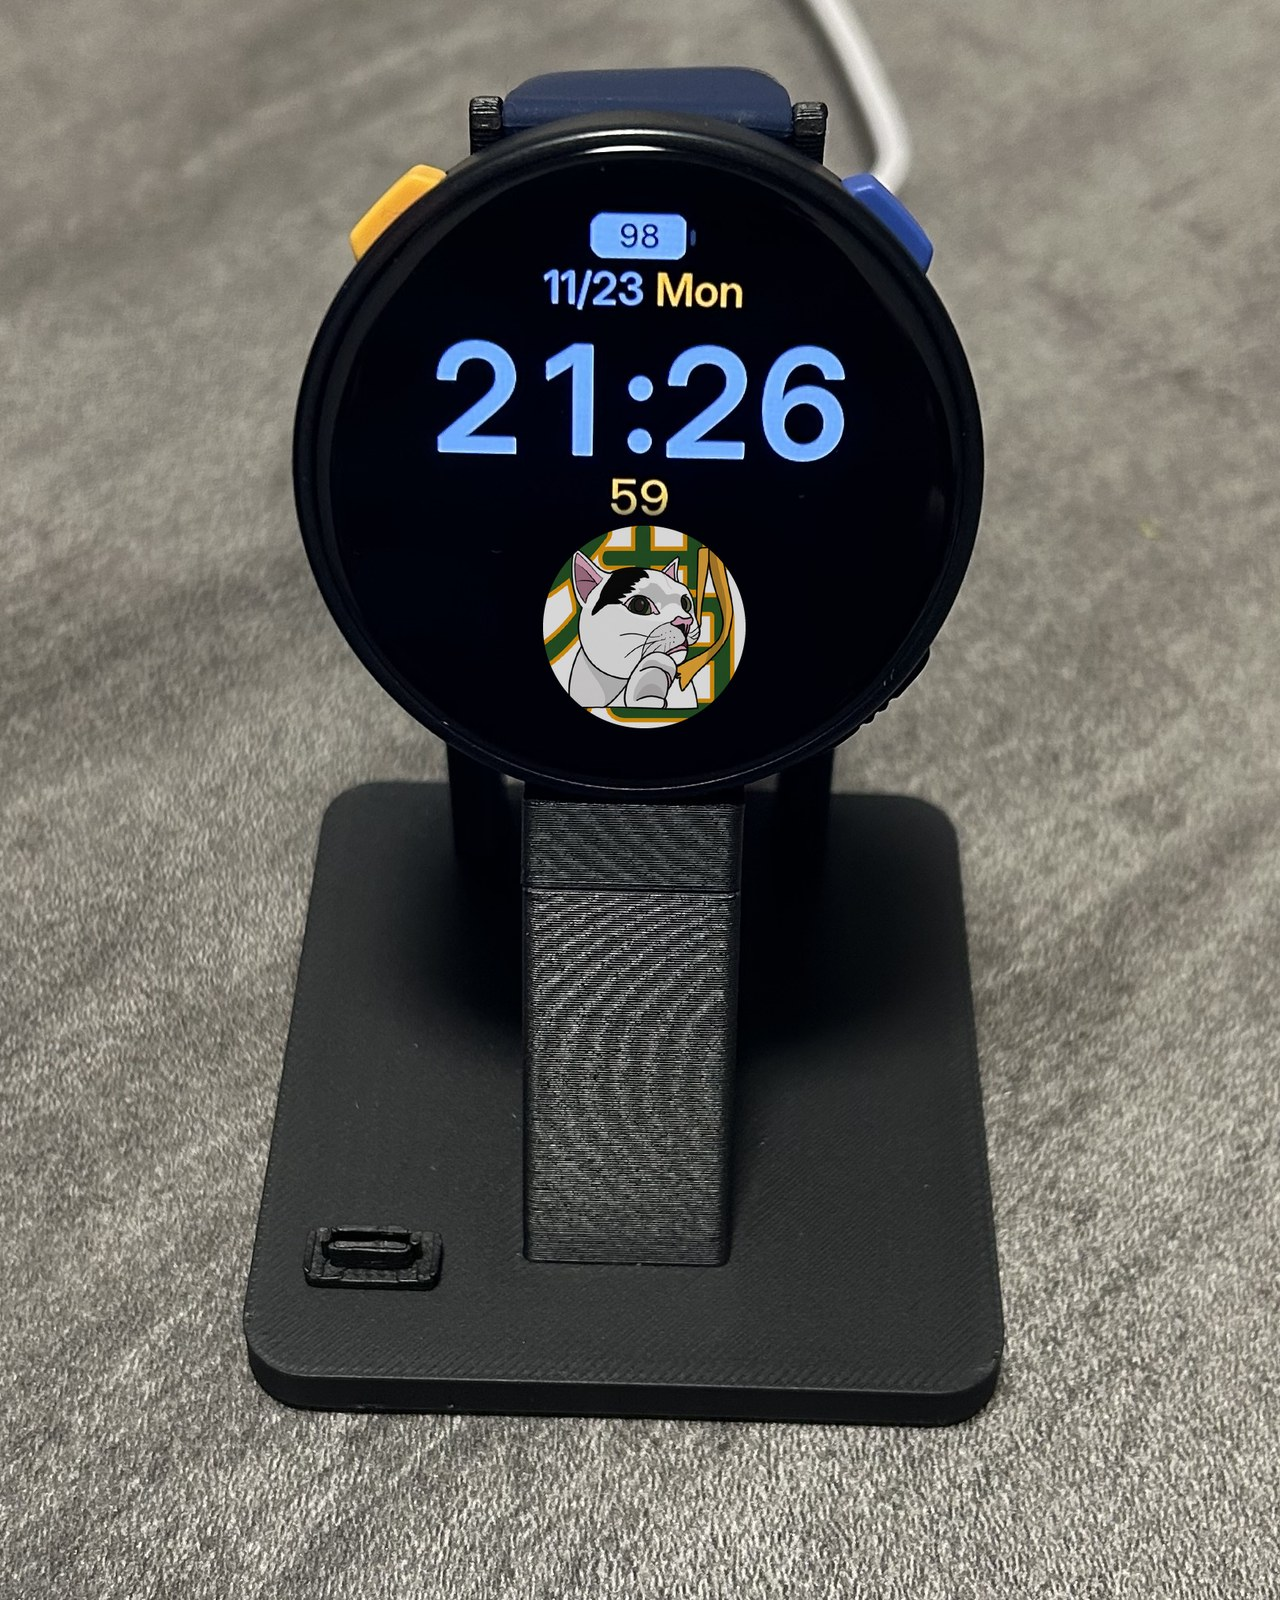
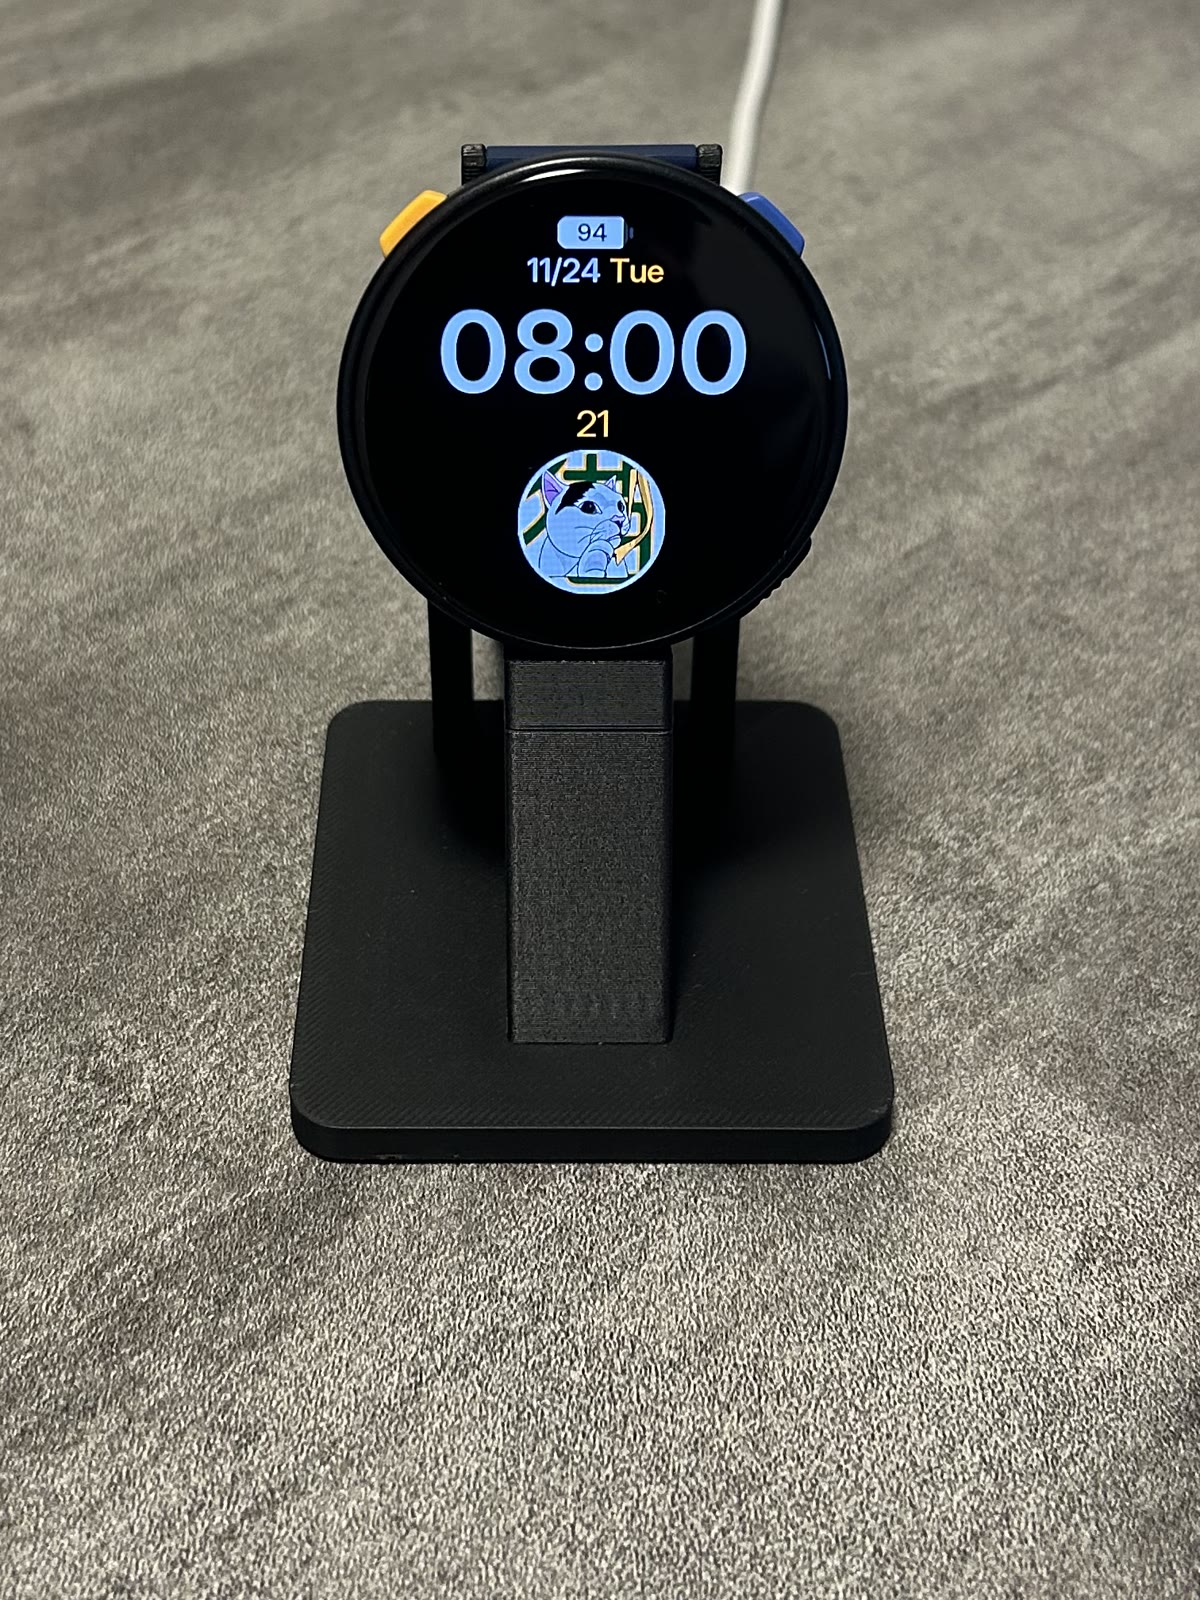
写真：実機に猫を表示して撮り直し、手首を上げて点灯する GIF とバンドを付けた写真を足す
Claude-Session: https://claude.ai/code/session_013tqB4hcq7cxXc3C4obV5G4

diff --git a/README.md b/README.md
@@ -17,6 +17,8 @@
 - 充電スタンドに立てている間は、暗めの置き時計になります。
 - 1 時間ごとに電池の電圧、復帰した回数、点灯した時間を記録し、何に電力を使ったかを後から調べられます（`apps/watch/tools/battery_report.py`）。
 
+![手首を上げると点灯する](docs/images/wrist_raise.gif)
+
 ![画面（左から時計、ストップウォッチ、タイマー、設定）](docs/images/screens.jpg)
 
 電池（450mAh）は、作者の普段の使い方で約 2 日もちます。
@@ -27,6 +29,7 @@
 
 <p>
   <img src="3d-print/images/band_adapter.jpg" alt="本体の裏側に付けたバンドアダプタ" height="360">
+  <img src="3d-print/images/watch_band.jpg" alt="22mm の時計バンドを付けたところ" height="360">
   <img src="3d-print/images/stand.jpg" alt="スタンドに立てたところ" height="360">
 </p>
 

diff --git a/3d-print/README.md b/3d-print/README.md
@@ -20,7 +20,10 @@
 
 ### バンドアダプタ
 
-![本体の裏側に付けたバンドアダプタ](images/band_adapter.jpg)
+<p>
+  <img src="images/band_adapter.jpg" alt="本体の裏側に付けたバンドアダプタ" height="360">
+  <img src="images/watch_band.jpg" alt="22mm の時計バンドを付けたところ" height="360">
+</p>
 
 - 本体背面の 2 本のネジ（M2 × 8）を外し、アダプタの板（2mm）をはさんで **M2 × 12 の皿ネジ** で留めます。
 - バネ棒は本体の縁の下に来るので、画面側から見るとラグがほとんどはみ出しません。
